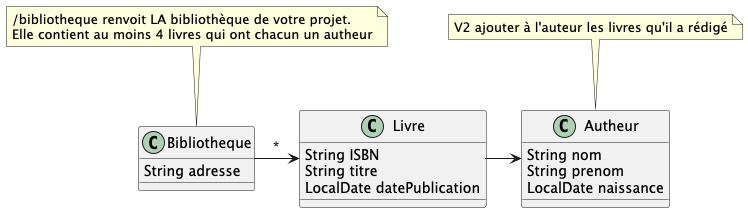
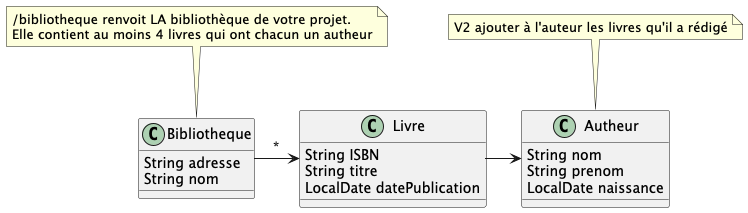
autheur - livre bouclent

diff --git a/src/main/java/fr/uha/serfa/lpdaoo25/BiblioTook/controller/BibliotookController.java b/src/main/java/fr/uha/serfa/lpdaoo25/BiblioTook/controller/BibliotookController.java
@@ -1,9 +1,12 @@
 package fr.uha.serfa.lpdaoo25.BiblioTook.controller;
 
 import fr.uha.serfa.lpdaoo25.BiblioTook.model.Autheur;
+import fr.uha.serfa.lpdaoo25.BiblioTook.model.Bibliotheque;
 import fr.uha.serfa.lpdaoo25.BiblioTook.model.Livre;
 import org.springframework.web.bind.annotation.GetMapping;
 import org.springframework.web.bind.annotation.RestController;
+
+import java.time.LocalDate;
 
 @RestController
 public class BibliotookController {
@@ -14,10 +17,23 @@ public class BibliotookController {
         return new Autheur();
     }
 
+    @GetMapping("/bibliotook/autheurLivre")
+    public AutheurSecurise autheurAvecLivre(){
+        Autheur a = new Autheur();
+        Livre l = new Livre("encore 50 nuances de gray", "OASJ", LocalDate.now(), a);
+        a.addLivre(l);
+        return new AutheurSecurise(a);
+    }
+
 
     @GetMapping("/bibliotook/livre")
     public Livre basicLivre(){
         return new Livre();
+    }
+
+    @GetMapping("/bibliotook/bibliotheque")
+    public Bibliotheque basicBibliotheque(){
+        return new Bibliotheque();
     }
 
 }

diff --git a/src/main/java/fr/uha/serfa/lpdaoo25/BiblioTook/model/Bibliotheque.java b/src/main/java/fr/uha/serfa/lpdaoo25/BiblioTook/model/Bibliotheque.java
@@ -1,0 +1,38 @@
+package fr.uha.serfa.lpdaoo25.BiblioTook.model;
+
+import java.time.LocalDate;
+import java.util.ArrayList;
+import java.util.List;
+
+public class Bibliotheque {
+
+    private String adresse = "10 rue de la gare Mulhouse";
+    private String nom = "Bibliothèque municipale";
+    private List<Livre> livres = new ArrayList<>();
+
+    public Bibliotheque() {
+        livres.add(new Livre());
+        livres.add(new Livre("Jardinage 2024", "1028347SHCI", LocalDate.now(), new Autheur("Florent", "Bourgeois", LocalDate.now())));
+
+    }
+
+    public Bibliotheque(String adresse, String nom, List<Livre> livres) {
+        this.adresse = adresse;
+        this.nom = nom;
+        this.livres = livres;
+    }
+
+    public String getAdresse() {
+        return adresse;
+    }
+
+    public String getNom() {
+        return nom;
+    }
+
+    public List<Livre> getLivres() {
+        return livres;
+    }
+
+
+}

diff --git a/src/main/java/fr/uha/serfa/lpdaoo25/BiblioTook/model/Autheur.java b/src/main/java/fr/uha/serfa/lpdaoo25/BiblioTook/model/Autheur.java
@@ -1,12 +1,18 @@
 package fr.uha.serfa.lpdaoo25.BiblioTook.model;
 
+import com.fasterxml.jackson.annotation.JsonIgnore;
+
 import java.time.LocalDate;
+import java.util.ArrayList;
+import java.util.List;
 
 public class Autheur {
 
     private String nom = "James";
     private String prenom = "Erika Leonard";
     private LocalDate naissance = LocalDate.of(1963, 03, 07);
+    private List<Livre> livres = new ArrayList<>();
+    public String password = "monPass";
 
     public Autheur() {
     }
@@ -27,5 +33,13 @@ public class Autheur {
 
     public LocalDate getDateNaissance() {
         return naissance;
+    }
+
+    public List<Livre> getLivres() {
+        return livres;
+    }
+
+    public void addLivre(Livre l){
+        this.livres.add(l);
     }
 }

diff --git a/src/main/java/fr/uha/serfa/lpdaoo25/BiblioTook/controller/AutheurSecurise.java b/src/main/java/fr/uha/serfa/lpdaoo25/BiblioTook/controller/AutheurSecurise.java
@@ -1,0 +1,24 @@
+package fr.uha.serfa.lpdaoo25.BiblioTook.controller;
+
+import fr.uha.serfa.lpdaoo25.BiblioTook.model.Autheur;
+import fr.uha.serfa.lpdaoo25.BiblioTook.model.Livre;
+
+import java.time.LocalDate;
+import java.util.ArrayList;
+import java.util.List;
+
+public class AutheurSecurise {
+
+    public String nom = "James";
+    public String prenom = "Erika Leonard";
+    public LocalDate dateNaissance = LocalDate.of(1963, 03, 07);
+    public List<Livre> livres = new ArrayList<>();
+
+    public AutheurSecurise(Autheur a){
+        this.nom = a.getNom();
+        this.dateNaissance = a.getDateNaissance();
+        this.prenom = a.getPrenom();
+        this.livres = a.getLivres();
+    }
+
+}
